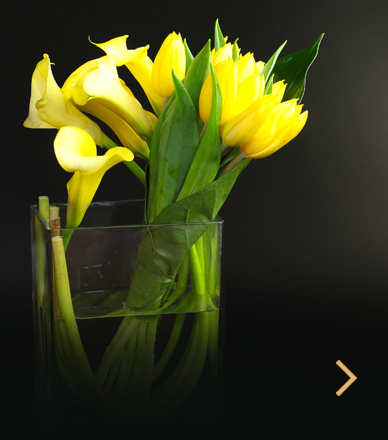
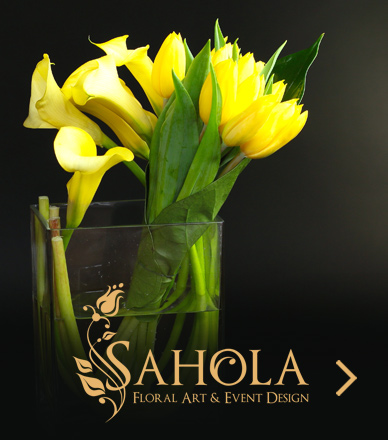
Google analitycs + new img of Sahola

Changed region(s): [[0.1856, 0.65, 0.8041, 0.9455]]

diff --git a/src/_html_block/head/head.html b/src/_html_block/head/head.html
@@ -42,6 +42,29 @@
   <meta content="telephone=no" name="format-detection" />
   <meta name="theme-color" content="#e51134" />
   <link rel="stylesheet" href="css/main.min.css">
+  <!-- Facebook Pixel Code -->
+  <script>
+  !function(f,b,e,v,n,t,s){if(f.fbq)return;n=f.fbq=function(){n.callMethod?
+  n.callMethod.apply(n,arguments):n.queue.push(arguments)};if(!f._fbq)f._fbq=n;
+  n.push=n;n.loaded=!0;n.version='2.0';n.queue=[];t=b.createElement(e);t.async=!0;
+  t.src=v;s=b.getElementsByTagName(e)[0];s.parentNode.insertBefore(t,s)}(window,
+  document,'script','https://connect.facebook.net/en_US/fbevents.js');
+  fbq('init', '112173236073224'); // Insert your pixel ID here.
+  fbq('track', 'PageView');
+  </script>
+  <noscript><img height="1" width="1" style="display:none"
+  src="https://www.facebook.com/tr?id=112173236073224&ev=PageView&noscript=1"
+  /></noscript>
+  <!-- DO NOT MODIFY -->
+  <!-- End Facebook Pixel Code -->
+  <script>
+    function onSubmit() {
+      fbq('track', 'Lead', {
+        value: 0,
+        currency: 'USD'
+      });
+    }
+  </script>
 
-  
-  
+
+

diff --git a/src/_html_block/present/present.html b/src/_html_block/present/present.html
@@ -24,8 +24,8 @@
     <p class="present__form-descr">
       First step to a growing business
       <span>creative website from 5000</span>
-    </p>
-    <form action="/echo" method="POST" class="form form--present">
+    </p>onclick="
+    <form action="/reg.php" method="POST" class="form form--present" onsubmit="ga('send','event','Button','Send','First step'); onSubmit();">
       <div class="form__field-wrap">
         <fieldset class="form__field form__field--present form__field--short">
           <input type="text" name="name" id="present-name" class="form__input form__input--present" required autocomplete="on">

diff --git a/src/_html_block/form/form.html b/src/_html_block/form/form.html
@@ -1,6 +1,6 @@
 <section class="form-wrap">
   <h2 class="form-title">Want to know more?</h2>
-  <form action="/echo" method="POST" class="form form--alone">
+  <form action="/reg.php" method="POST" class="form form--alone" onsubmit="ga('send','event','Button','Send','Know more'); onSubmit()">
     <fieldset class="form__field">
       <input type="text" name="name" id="name" class="form__input" required autocomplete="on">
       <label class="form__label" for="name">Your name*</label>

diff --git a/src/_html_block/promo/promo.html b/src/_html_block/promo/promo.html
@@ -34,7 +34,7 @@
     <div class="promo__info">
       <h1 class="promo__title">Creative websites</h1>
       <p class="promo__info-text">for small business from <span class="promo__price">$ 5000</span></p>
-      <a href="#who" class="btn btn--red promo__btn">Level up</a>
+      <a href="#who" class="btn btn--red promo__btn" onclick="ga('send','event','Button','Press','Level up')">Level up</a>
     </div>
   </div>
 </section>
